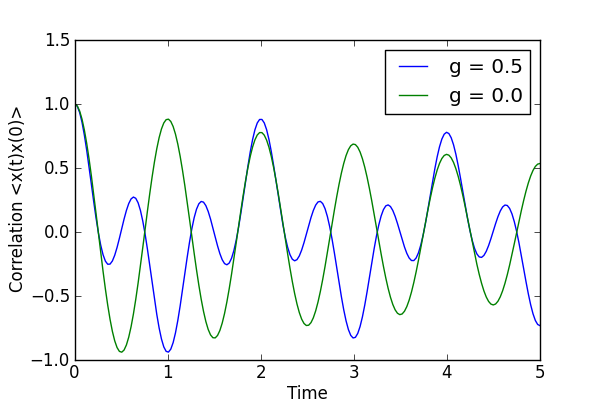
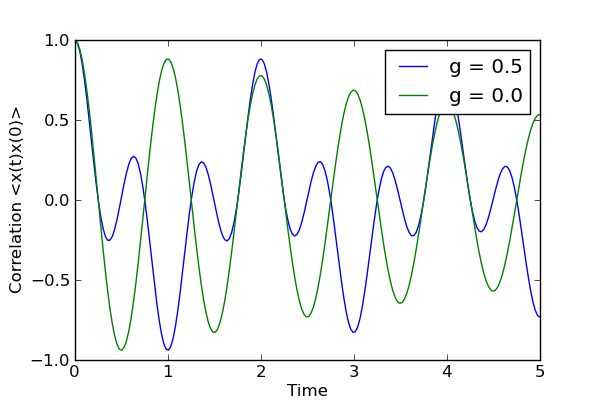
updated correlation function example

diff --git a/doc/examples/examples-corrfunc.py b/doc/examples/examples-corrfunc.py
@@ -55,4 +55,4 @@ xlabel('Time')
 ylabel('Correlation <x(t)x(0)>')
 legend(("g = 0.5", "g = 0.0"))
 savefig('examples-corrfunc.png')
-close(fig)
+

diff --git a/doc/examples/examples-corrfunc.rst b/doc/examples/examples-corrfunc.rst
@@ -12,9 +12,8 @@ In the following example we calculate the :math:`\left<x(t)x(0)\right>` correlat
 `Download example <http://qutip.googlecode.com/svn/doc/examples/examples-corrfunc.py>`_
 
 
-.. figure:: http://qutip.googlecode.com/svn/wiki/images/examples-correlation-function.png
+.. figure:: examples-corrfunc.png
     :align: center
-    :target: http://qutip.googlecode.com/svn/wiki/images/examples-correlation-function.png
     
 
 
